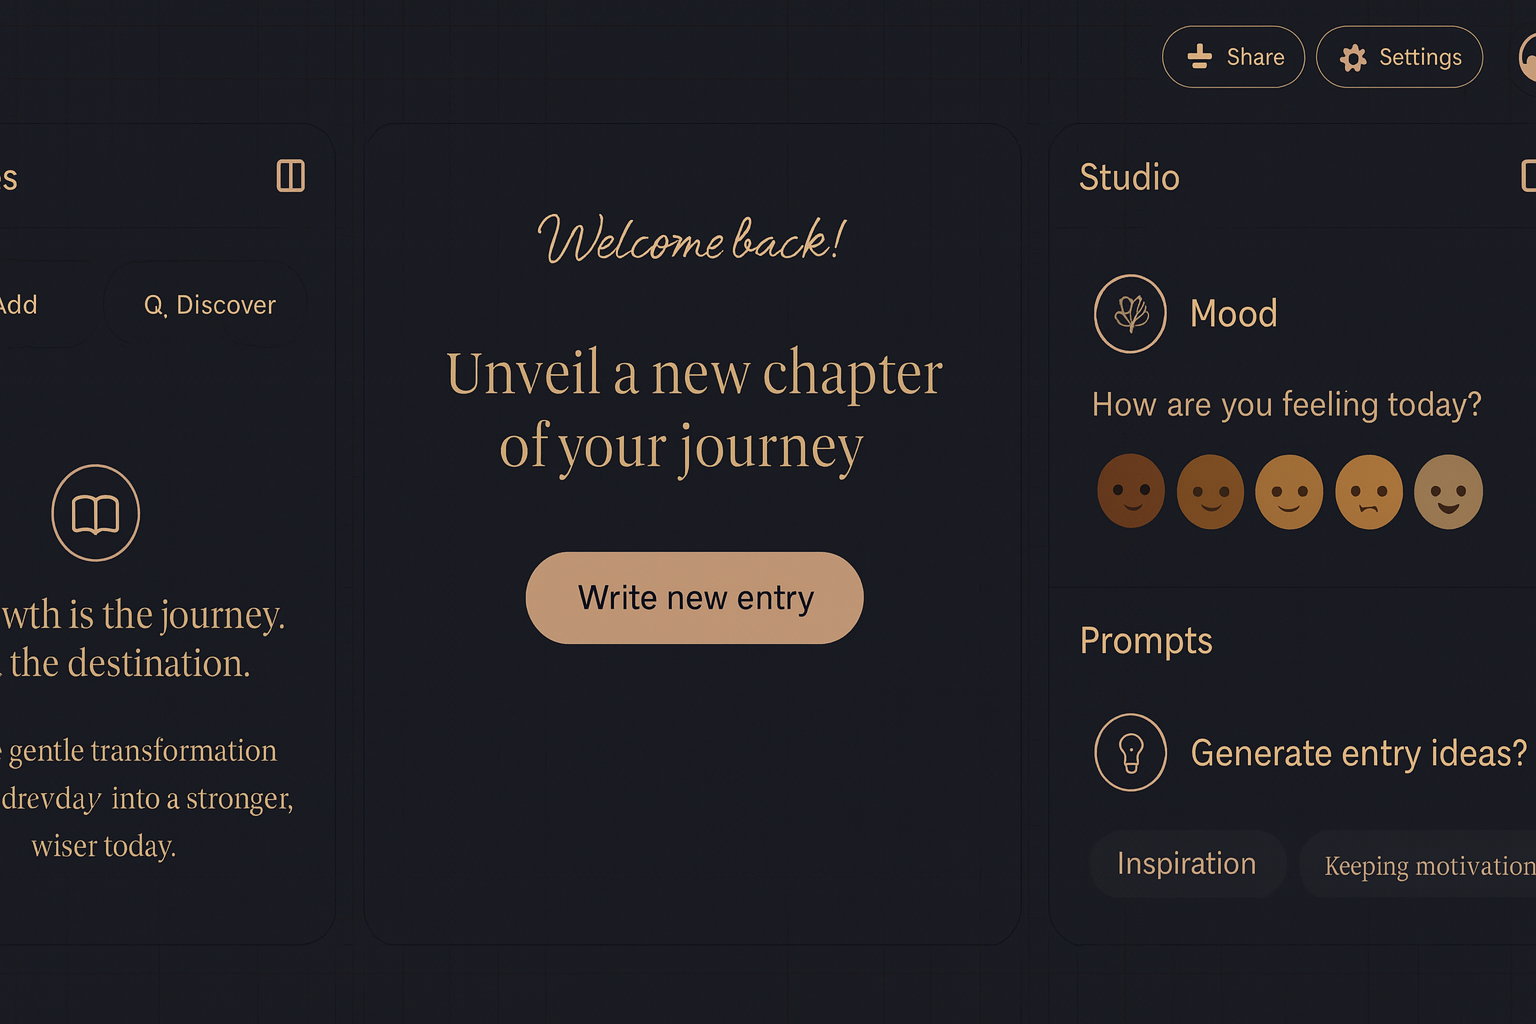
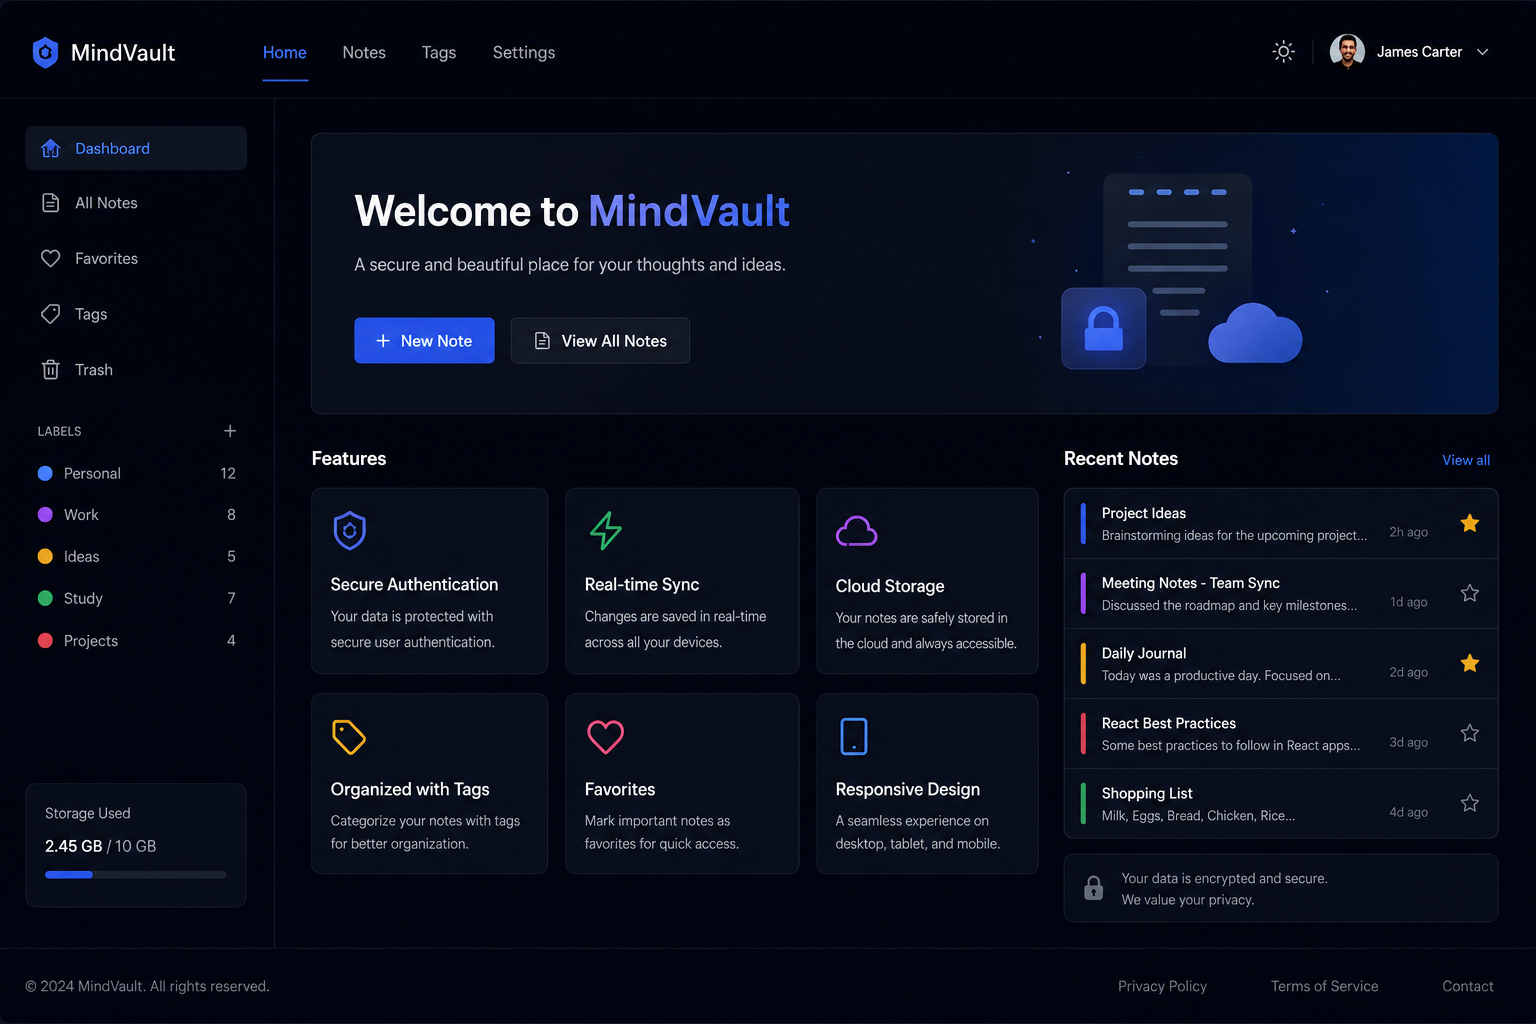
images

diff --git a/components/profile-card-testimonial-carousel.tsx b/components/profile-card-testimonial-carousel.tsx
@@ -33,7 +33,7 @@ const projects: Project[] = [
     tagline: "AI Skills Gap Analyzer",
     description:
       "Compares a resume with a job description to surface matched and missing skills, then generates a focused learning plan with resource links. Built with Next.js, TypeScript, Tailwind, and Groq for fast, structured AI responses.",
-    imageUrl: "/images/skilllens.jpg",
+    imageUrl: "/images/skilllens.png",
     tags: ["Next.js", "TypeScript", "Tailwind", "Groq", "Framer Motion"],
     githubUrl: "https://github.com/amanlotey/SkillLens",
   },
@@ -42,7 +42,7 @@ const projects: Project[] = [
     tagline: "Secure Digital Diary",
     description:
       "A secure digital diary application built with the MERN stack, enabling users to privately document thoughts, feelings, and daily experiences. Features robust authentication, encrypted entry storage, and a responsive journaling interface.",
-    imageUrl: "/images/notes_generator.jpg",
+    imageUrl: "/images/notes_generator.png",
     tags: ["React", "Express", "MongoDB", "Tailwind", "Bootstrap"],
     githubUrl: "https://github.com/amanlotey/MindVault",
   },
